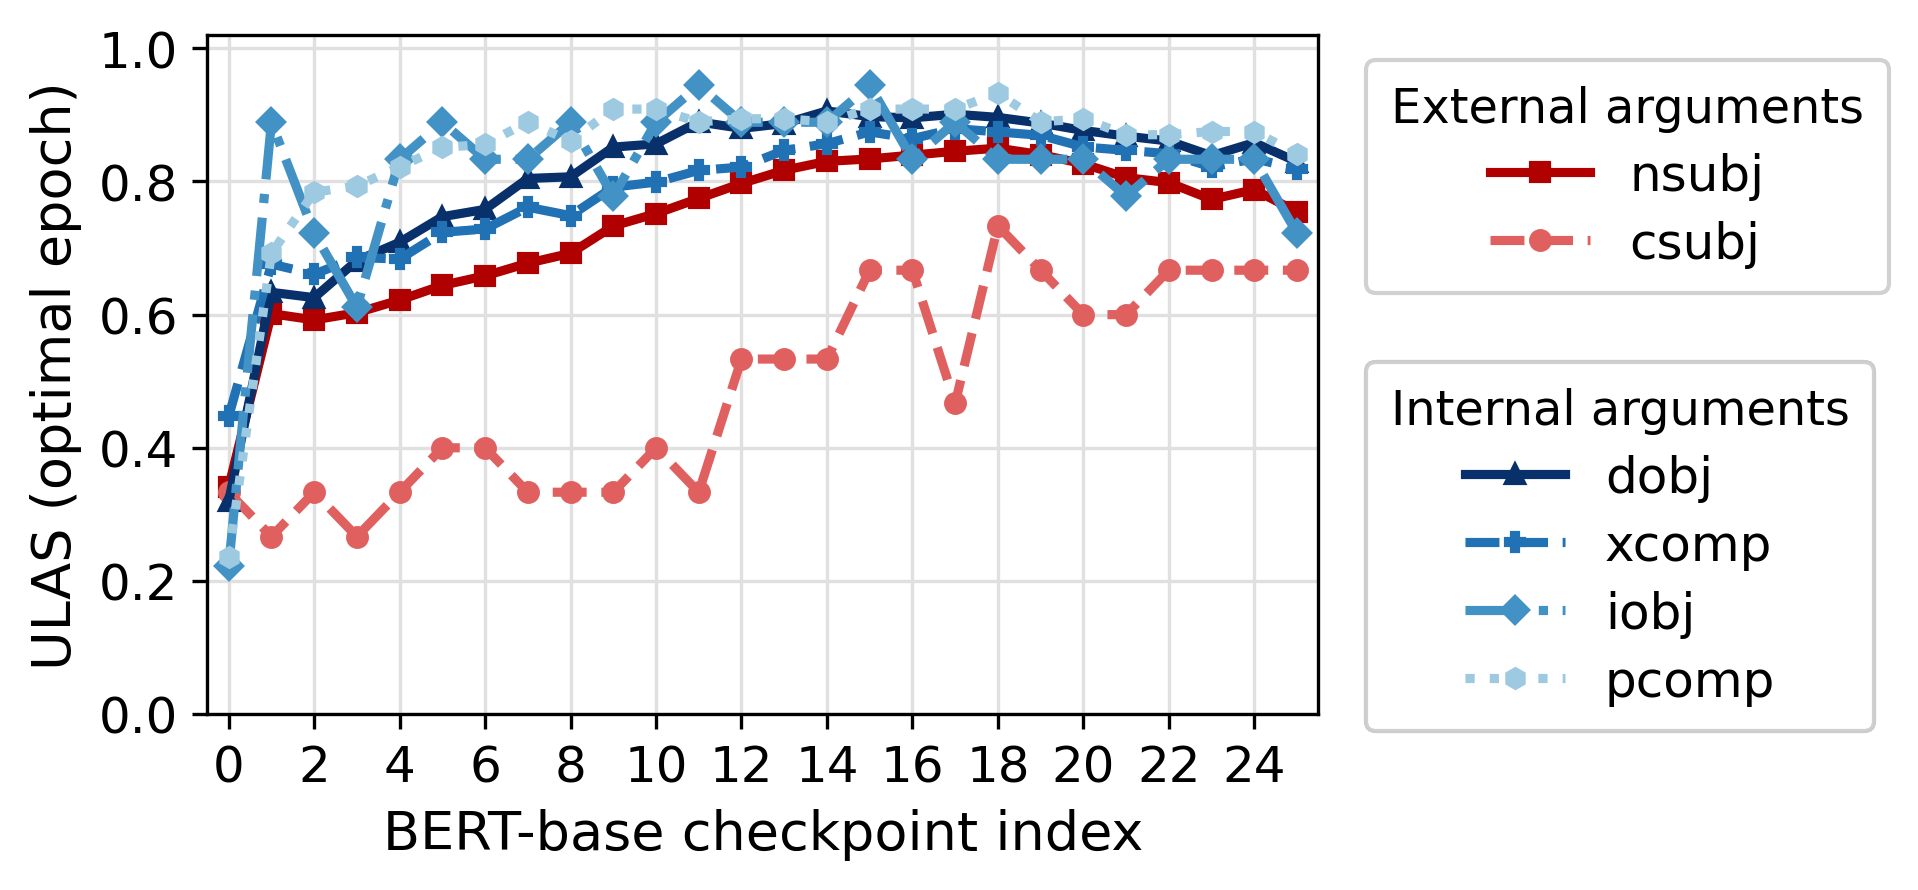
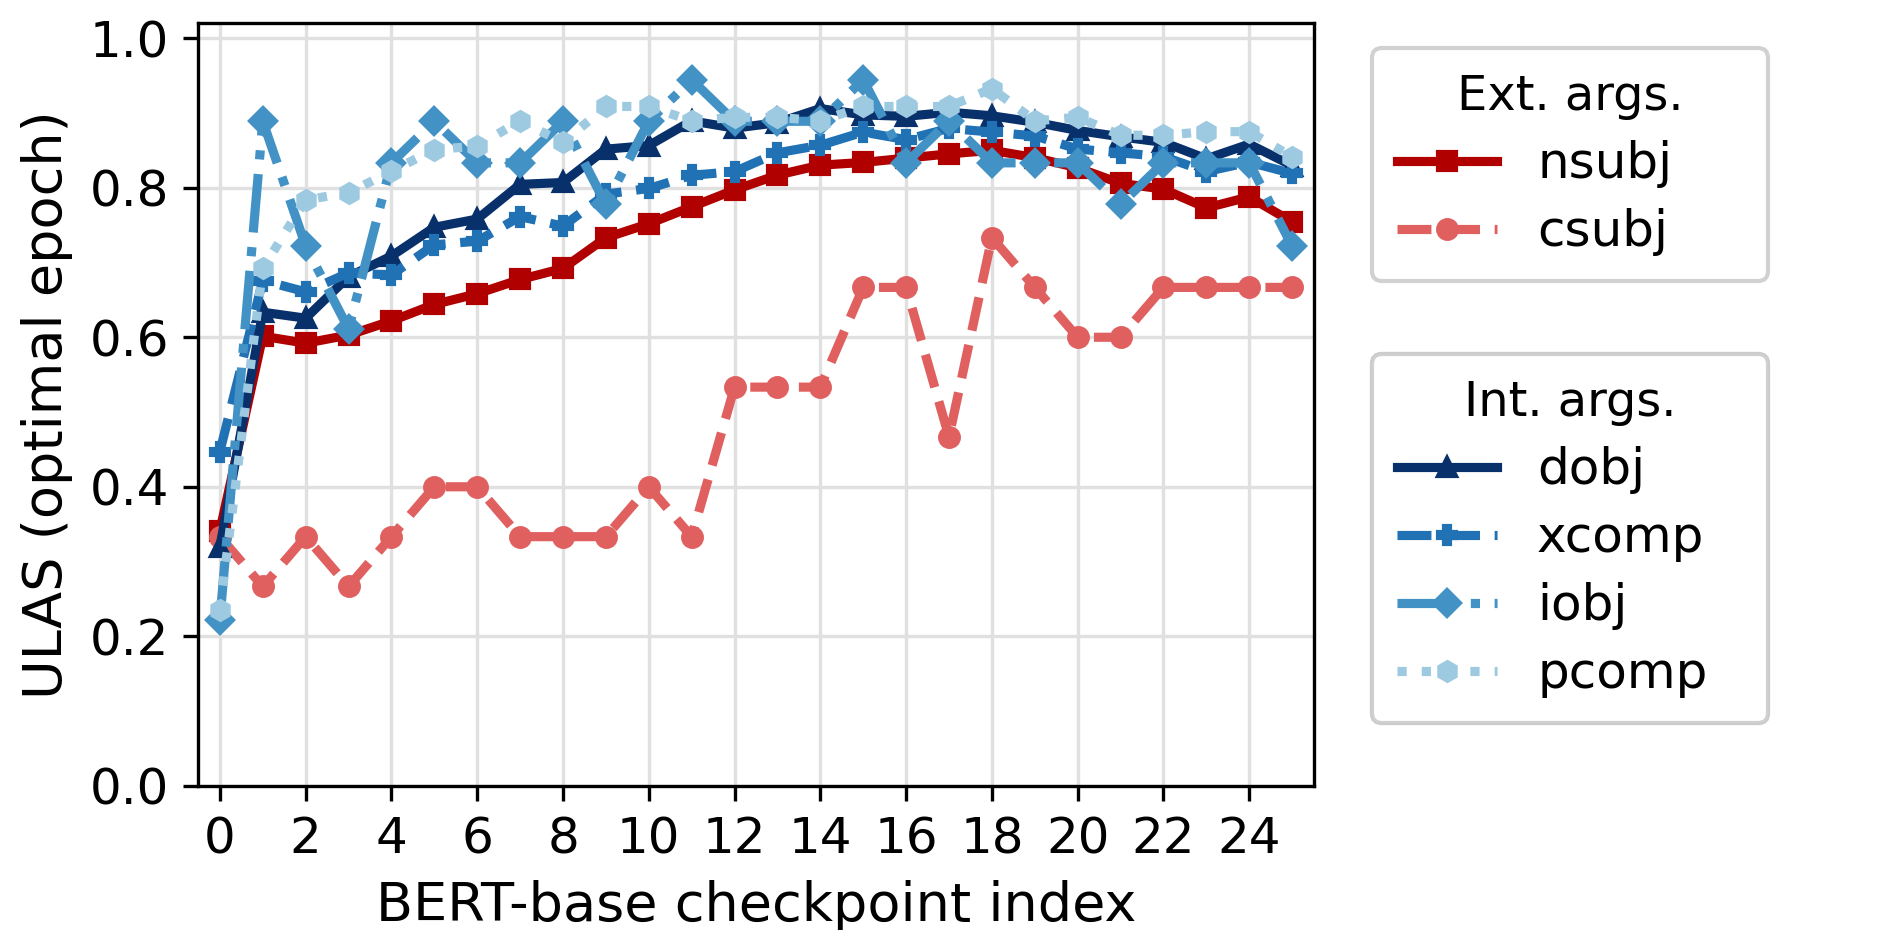
Give the three ULAS-by-relation figures identical geometry
Abbreviating the legend titles to "Ext. args."/"Int. args." is not enough
on its own: with a tight bounding box the image width still followed the
widest label, so the verb-argument figure came out 5% wider than the
other two and LaTeX scaled it down by that much at \columnwidth, leaving
three figures with subtly different axes and type sizes.

The axes rectangle is now fixed, the saved bounding box is the whole
canvas, and each legend block is expanded to a set fraction of the axes
width. All three images are 1890x930 with ink over exactly the same
columns, so they scale identically in the paper.

Changed region(s): [[0.0, 0.0, 0.9989, 1.0]]

diff --git a/scripts/plot_selected_relations.py b/scripts/plot_selected_relations.py
@@ -41,12 +41,12 @@ import pandas as pd
 # Labels are bare relation names: the grouping is carried by the legend blocks.
 RELATION_SETS = {
     'verb-args': [
-        ('External arguments', [
+        ('Ext. args.', [
             # red shades
             ('nsubj', 'nsubj', '#B00000', '-', 's'),
             ('csubj', 'csubj', '#E06060', '--', 'o'),
         ]),
-        ('Internal arguments', [
+        ('Int. args.', [
             # blue shades
             ('dobj', 'dobj', '#08306B', '-', '^'),
             ('xcomp', 'xcomp', '#2171B5', '--', 'P'),
@@ -96,7 +96,7 @@ def load(results_dir):
     return pd.concat(records, ignore_index=True)
 
 
-def stack_legends(fig, ax, blocks, fontsize, title_fontsize):
+def stack_legends(fig, ax, blocks, fontsize, title_fontsize, width):
     """Draw one legend per group, stacked down the right-hand side of the axes.
 
     Separate legends rather than one legend with heading rows: a legend title
@@ -104,16 +104,20 @@ def stack_legends(fig, ax, blocks, fontsize, title_fontsize):
     would be indented by the handle column and would not read as a heading.
     Each block's height is measured after drawing, so the next one can be
     anchored just below it whatever the entry count or font metrics.
+
+    `width` (in axes-width units) is imposed with mode='expand', so the legend
+    box is the same width whatever the labels are. Together with the fixed
+    axes rectangle of `main`, that makes every figure in the family come out
+    at identical dimensions, which is what keeps them looking alike once
+    LaTeX has scaled each to the column width.
     """
     y = 1.0
     for title, handles, labels in blocks:
         leg = ax.legend(handles, labels, title=title, loc='upper left',
-                        bbox_to_anchor=(1.02, y), fontsize=fontsize,
-                        title_fontsize=title_fontsize, frameon=True,
-                        framealpha=0.9, edgecolor='#cccccc',
+                        bbox_to_anchor=(1.03, y, width, 0.0), mode='expand',
+                        fontsize=fontsize, title_fontsize=title_fontsize,
+                        frameon=True, framealpha=0.9, edgecolor='#cccccc',
                         borderpad=0.5, labelspacing=0.4, handlelength=2.0)
-        if title is not None:
-            leg.get_title().set_ha('left')
         ax.add_artist(leg)
         # add_artist clips to the axes rectangle, which would hide a legend
         # placed outside it.
@@ -133,9 +137,12 @@ def main():
                     help='which set of relations to draw (default: verb-args)')
     ap.add_argument('--tick-step', type=int, default=None,
                     help='x-tick spacing; default adapts to the checkpoint count')
-    ap.add_argument('--figsize', default='4.6,3.1',
-                    help='axes size in inches, "W,H"; the legend is added to '
-                         'the right of this by the tight bounding box')
+    ap.add_argument('--figsize', default='6.3,3.1',
+                    help='whole-canvas size in inches, "W,H", legend strip '
+                         'included; the saved image is exactly this size')
+    ap.add_argument('--legend-width', type=float, default=0.40,
+                    help='legend box width as a fraction of the axes width, '
+                         'imposed on every block so all are equally wide')
     args = ap.parse_args()
 
     data = load(args.results_dir)
@@ -168,10 +175,14 @@ def main():
     ax.grid(True, color='#e0e0e0', linewidth=0.8)
     ax.set_facecolor('white')
 
-    fig.tight_layout()
-    stack_legends(fig, ax, blocks, fontsize=12, title_fontsize=11.5)
+    # A fixed axes rectangle rather than tight_layout, and a saved bounding
+    # box that is the whole canvas rather than a tight one: the image size
+    # then does not depend on how wide this figure's legend happens to be.
+    fig.subplots_adjust(left=0.105, right=0.695, top=0.975, bottom=0.155)
+    stack_legends(fig, ax, blocks, fontsize=12, title_fontsize=11.5,
+                  width=args.legend_width)
     Path(args.out).parent.mkdir(parents=True, exist_ok=True)
-    fig.savefig(args.out, dpi=300, bbox_inches='tight')
+    fig.savefig(args.out, dpi=300)
     print(f'Saved to {args.out}')
 
 
